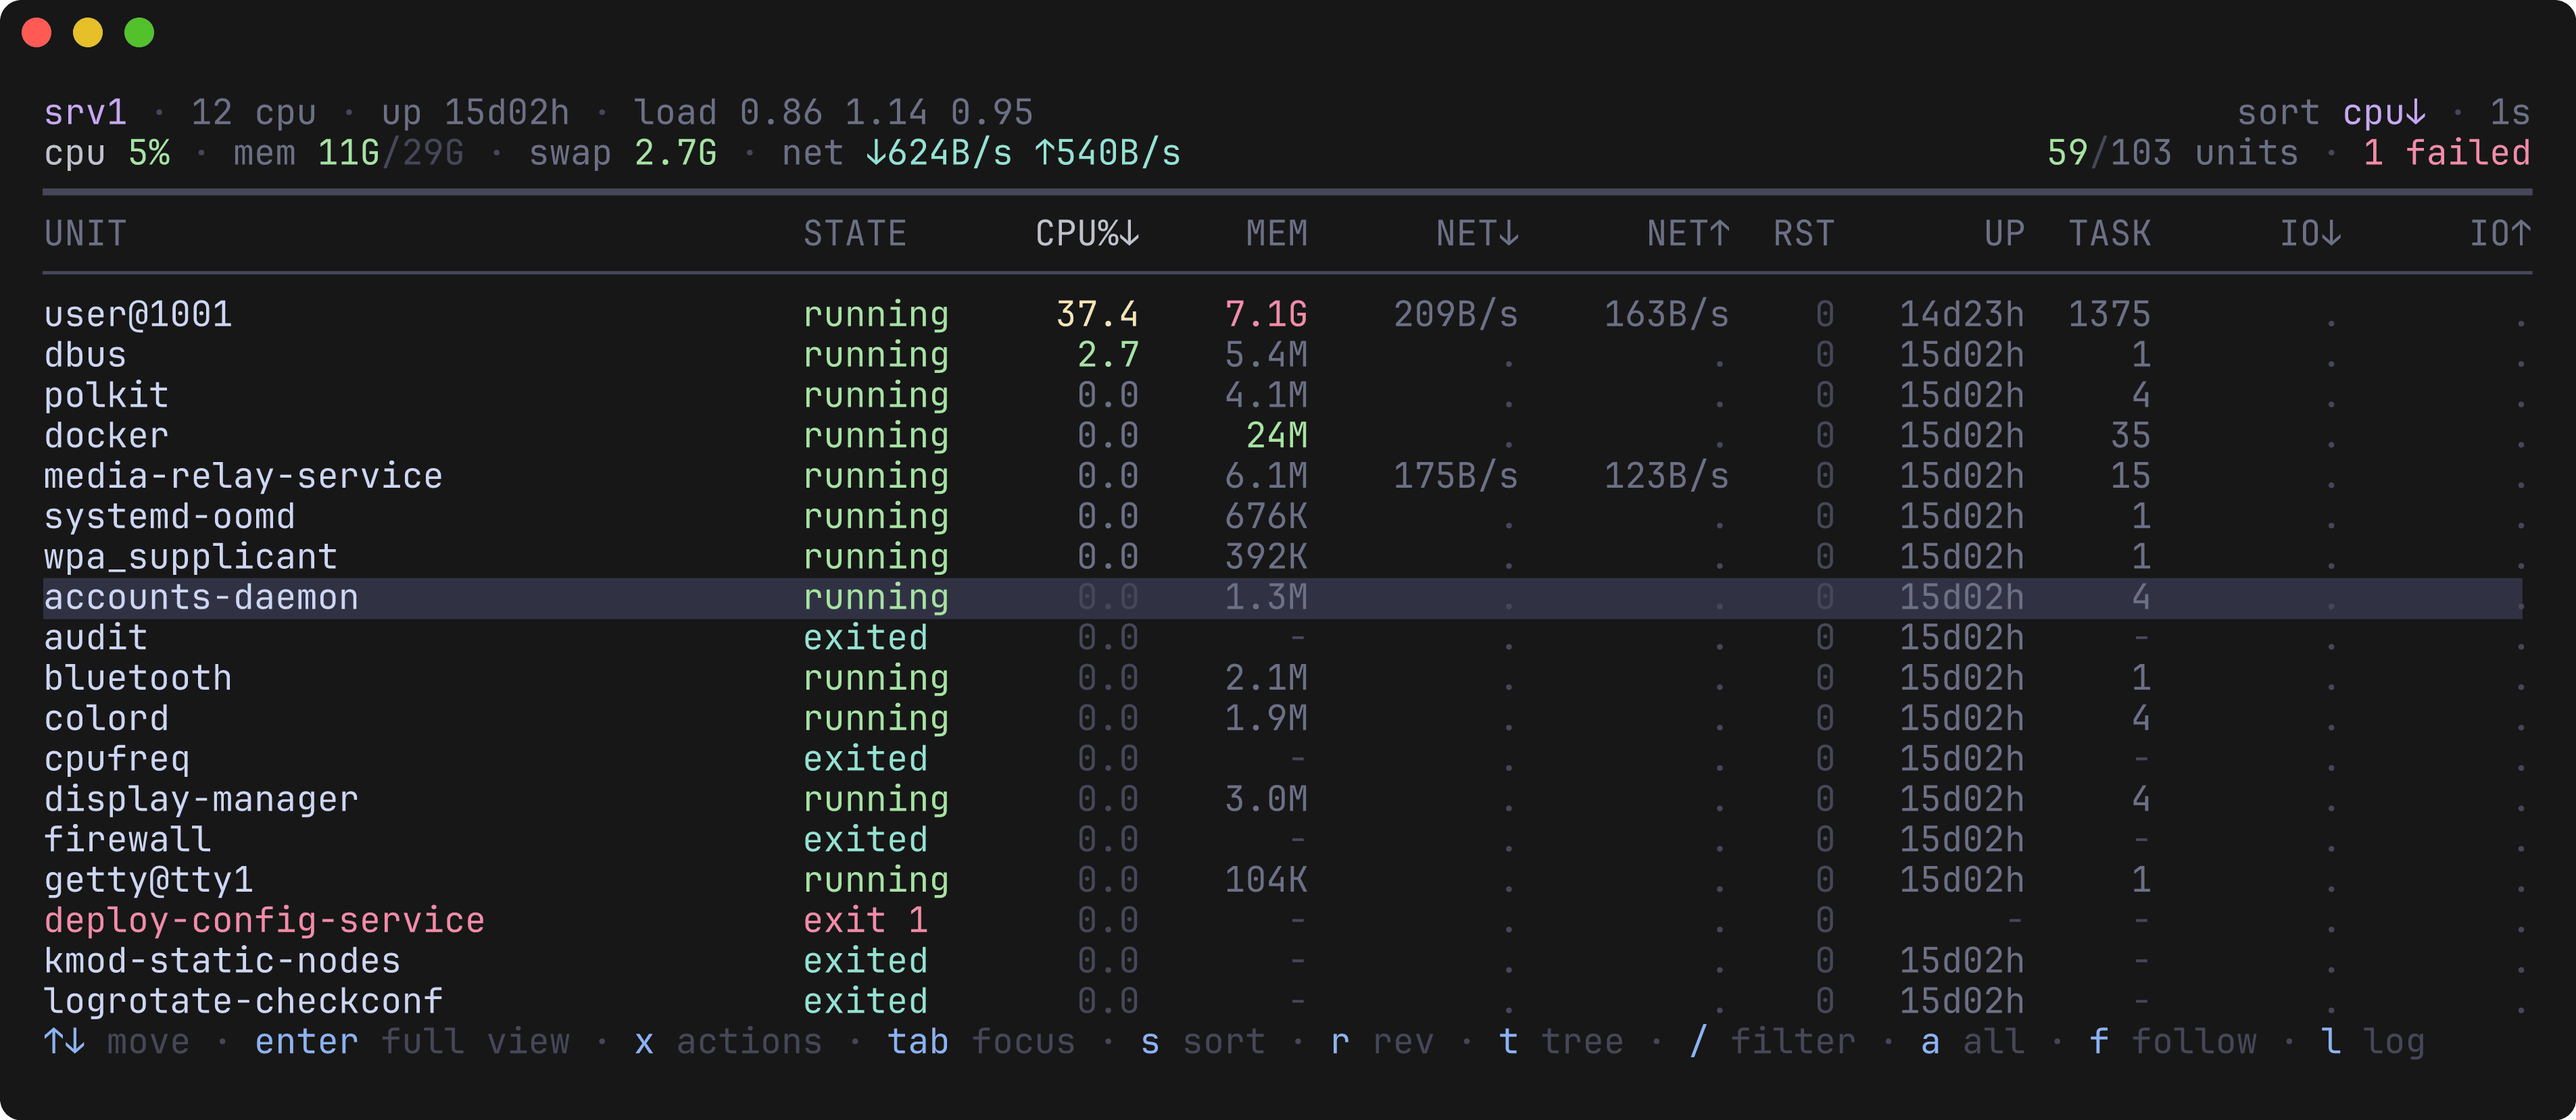
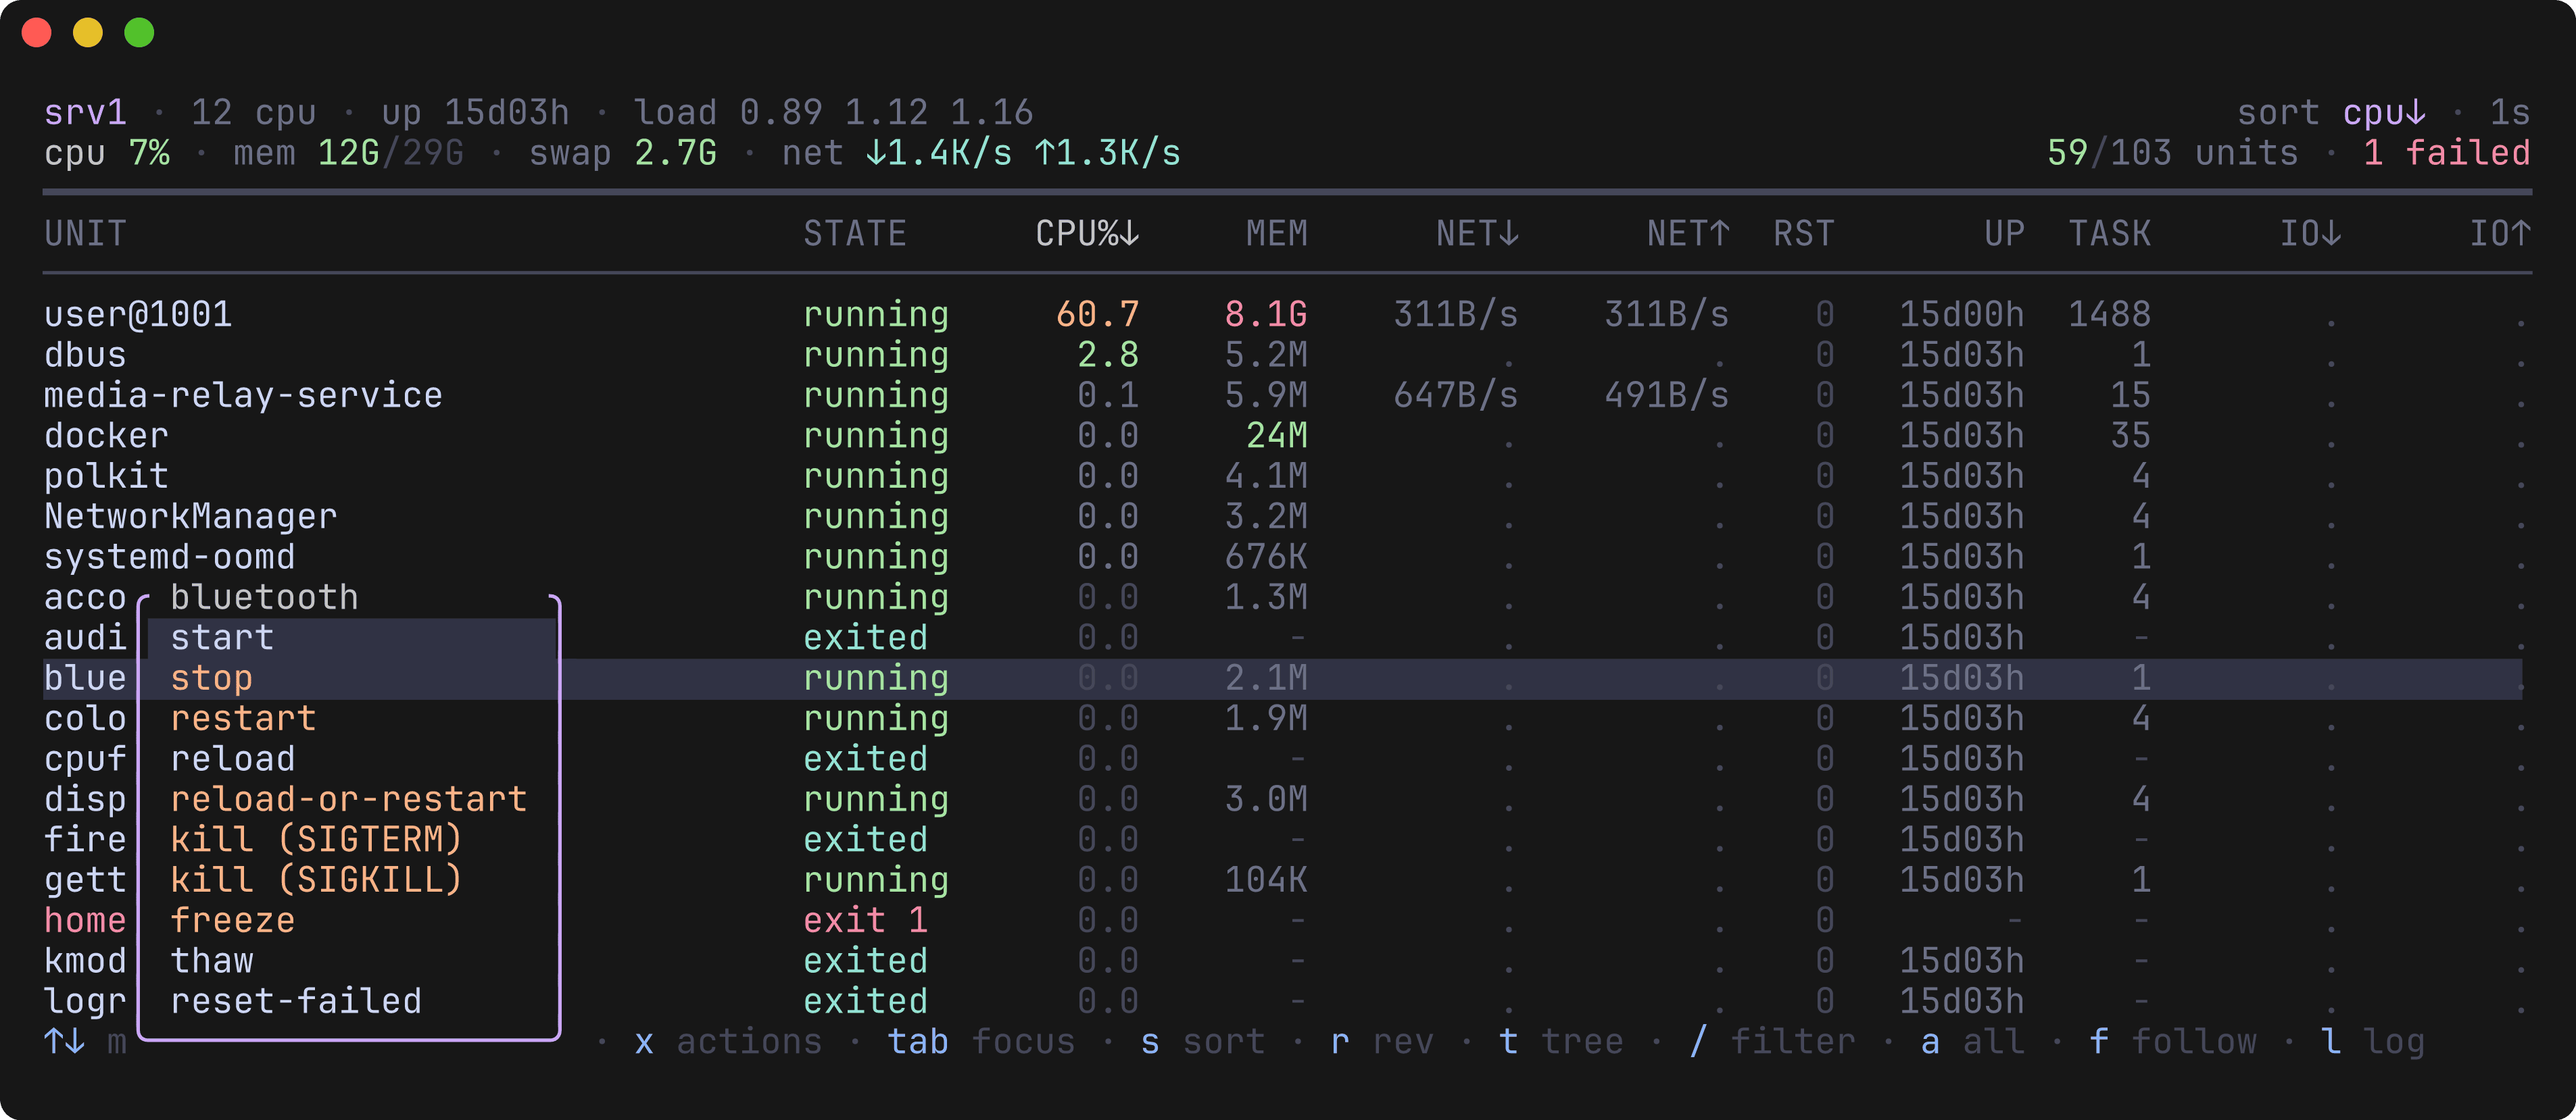
Draw the action menu as a popup, not a curtain; release 0.1.2
The overlay replaced each covered line from the popup's left edge onward, so
everything to the right of it vanished — half the table blanked out whenever
the menu was open. It now writes prefix + box + the rest of the original line,
so the table keeps rendering on both sides, which is what a popup should do.

That needed an ANSI-aware slice-from-column: the tail has to carry the styling
in effect where the cut lands, and truncANSI only handled the prefix case.

The menu screenshot showed no menu at all. The capture sent 'jjx' as a single
tmux send-keys, the popup never opened, and I rendered it without looking.
Recaptured with a pause between keys, and this time asserted the box is in the
frame before rendering it.

diff --git a/src/actions_test.go b/src/actions_test.go
@@ -171,6 +171,73 @@ func TestMenuItemAt(t *testing.T) {
 	}
 }
 
+// A popup covers its own width and nothing more — the table must still be
+// readable on both sides of it.
+func TestMenuOverlayKeepsTheRestOfTheRow(t *testing.T) {
+	m := actionModel(t)
+	m.width, m.height = 140, 30
+	m.rebuild()
+
+	before := strings.Split(m.View(), "\n")
+	m.openMenu("nginx.service", 20, 6)
+	after := strings.Split(m.View(), "\n")
+
+	w := menuWidth("nginx.service")
+	covered := 0
+	for i := range after {
+		if lipglossWidth(after[i]) > m.width {
+			t.Fatalf("line %d grew to %d columns", i, lipglossWidth(after[i]))
+		}
+		if i < m.menu.y || i >= m.menu.y+len(m.menuBox()) {
+			if after[i] != before[i] {
+				t.Errorf("line %d changed but the popup does not reach it", i)
+			}
+			continue
+		}
+		covered++
+		// What lay left of and right of the popup must survive it.
+		left, right := stripANSI(sliceANSI(before[i], 0)), stripANSI(sliceANSI(before[i], 20+w))
+		gotLeft := stripANSI(sliceANSI(after[i], 0))
+		gotRight := stripANSI(sliceANSI(after[i], 20+w))
+		if len(strings.TrimSpace(left)) > 0 && !strings.HasPrefix(gotLeft, left[:20]) {
+			t.Errorf("line %d lost the text left of the popup", i)
+		}
+		if s := strings.TrimSpace(right); s != "" && strings.TrimSpace(gotRight) != s {
+			t.Errorf("line %d lost the text right of the popup:\n  want %q\n  got  %q", i, s, gotRight)
+		}
+	}
+	if covered == 0 {
+		t.Fatal("the popup covered no rows")
+	}
+}
+
+func TestSliceANSI(t *testing.T) {
+	plain := "abcdefghij"
+	if got := stripANSI(sliceANSI(plain, 4)); got != "efghij" {
+		t.Errorf("sliceANSI(plain,4) = %q", got)
+	}
+	if got := sliceANSI(plain, 99); got != "" {
+		t.Errorf("slicing past the end should give nothing, got %q", got)
+	}
+	// Styling in effect at the cut must be carried over. Written out by hand:
+	// lipgloss renders plain when there is no terminal, as under `go test`.
+	styled := "\x1b[31mabc\x1b[1mdef\x1b[0m"
+	got := sliceANSI(styled, 3)
+	if stripANSI(got) != "def" {
+		t.Errorf("visible tail = %q", stripANSI(got))
+	}
+	if !strings.Contains(got, "\x1b[31m") {
+		t.Errorf("tail lost the colour that was in effect: %q", got)
+	}
+	if !strings.Contains(got, "\x1b[1m") {
+		t.Errorf("tail lost a style set at the cut: %q", got)
+	}
+	// Trailing padding is not worth carrying.
+	if got := sliceANSI("abc      ", 3); got != "" {
+		t.Errorf("whitespace tail should be dropped, got %q", got)
+	}
+}
+
 func TestMenuOverlayKeepsFrameSize(t *testing.T) {
 	m := actionModel(t)
 	m.openMenu("nginx.service", 6, 5)

diff --git a/src/view.go b/src/view.go
@@ -874,6 +874,12 @@ func (m model) overlayMenu(lines []string) []string {
 		x = max(0, (m.width-lipgloss.Width(box[0]))/2)
 		y = max(0, m.height/2-len(box)/2)
 	}
+	// The popup covers its own width and no more: the table keeps rendering on
+	// both sides of it, as a popup should.
+	boxW := 0
+	for _, bl := range box {
+		boxW = max(boxW, lipgloss.Width(bl))
+	}
 	for i, bl := range box {
 		row := y + i
 		if row < 0 || row >= len(lines) {
@@ -881,9 +887,66 @@ func (m model) overlayMenu(lines []string) []string {
 		}
 		prefix := truncANSI(lines[row], x)
 		prefix += strings.Repeat(" ", max(0, x-lipgloss.Width(prefix)))
-		lines[row] = prefix + bl
+		lines[row] = prefix + bl + sliceANSI(lines[row], x+boxW)
 	}
 	return lines
+}
+
+// sliceANSI returns the part of s from visible column `from` onward, carrying
+// the styling that was in effect there so the tail keeps its colours.
+func sliceANSI(s string, from int) string {
+	var style, out strings.Builder
+	var esc strings.Builder
+	visible, inEsc := 0, false
+	for _, r := range s {
+		if r == '\x1b' {
+			inEsc = true
+			esc.Reset()
+			esc.WriteRune(r)
+			continue
+		}
+		if inEsc {
+			esc.WriteRune(r)
+			if r == 'm' {
+				inEsc = false
+				// Sequences before the cut set the state we must restore;
+				// after it they belong to the output verbatim.
+				if visible < from {
+					style.WriteString(esc.String())
+				} else {
+					out.WriteString(esc.String())
+				}
+			}
+			continue
+		}
+		if visible >= from {
+			out.WriteRune(r)
+		}
+		visible++
+	}
+	if strings.TrimSpace(stripSGR(out.String())) == "" {
+		return "" // nothing but padding out there
+	}
+	return style.String() + out.String()
+}
+
+func stripSGR(s string) string {
+	var b strings.Builder
+	inEsc := false
+	for _, r := range s {
+		if r == '\x1b' {
+			inEsc = true
+			continue
+		}
+		if inEsc {
+			if r == 'm' {
+				inEsc = false
+			}
+			continue
+		}
+		b.WriteRune(r)
+	}
+	return b.String()
 }
 
 func (m model) menuBox() []string {

diff --git a/src/main.go b/src/main.go
@@ -9,7 +9,7 @@ import (
 	tea "github.com/charmbracelet/bubbletea"
 )
 
-var version = "0.1.1"
+var version = "0.1.2"
 
 func main() {
 	var (
